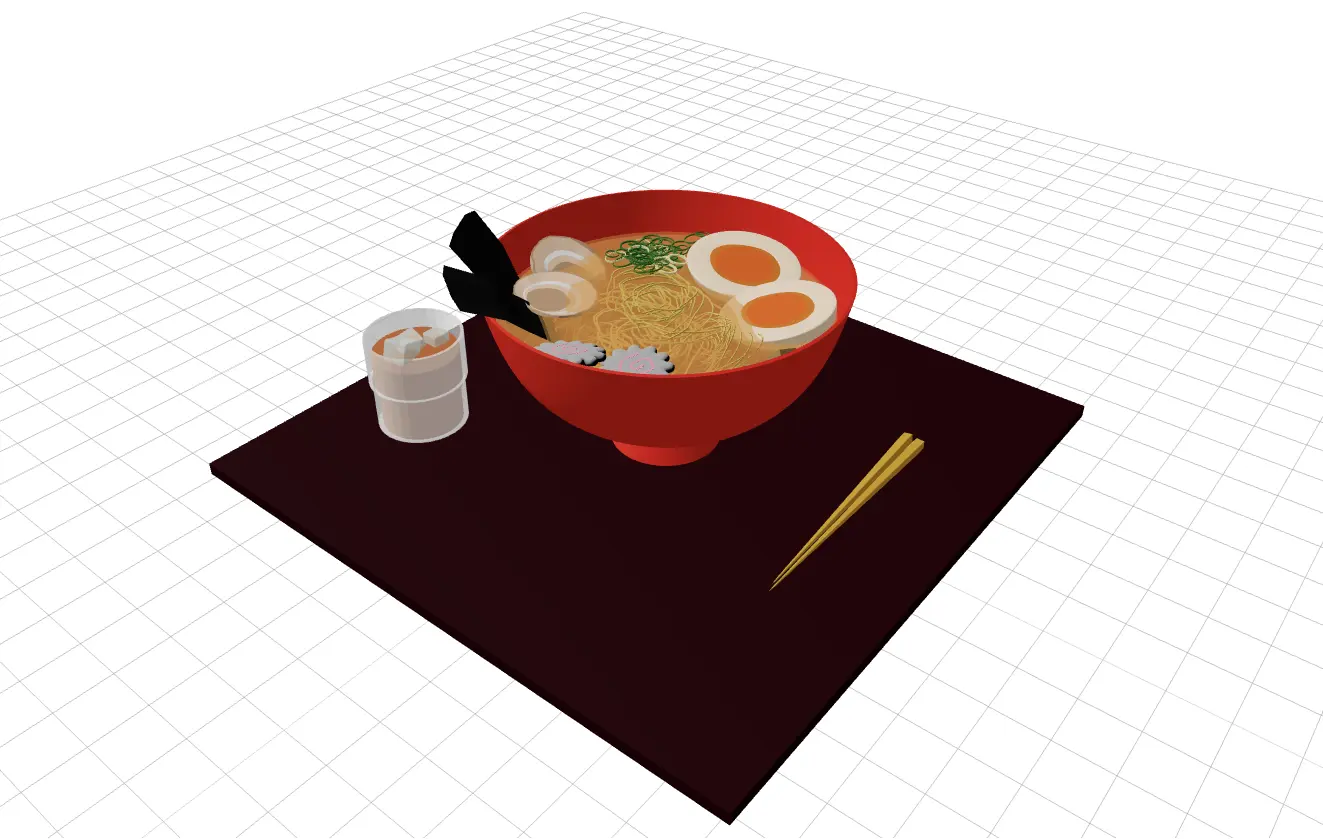
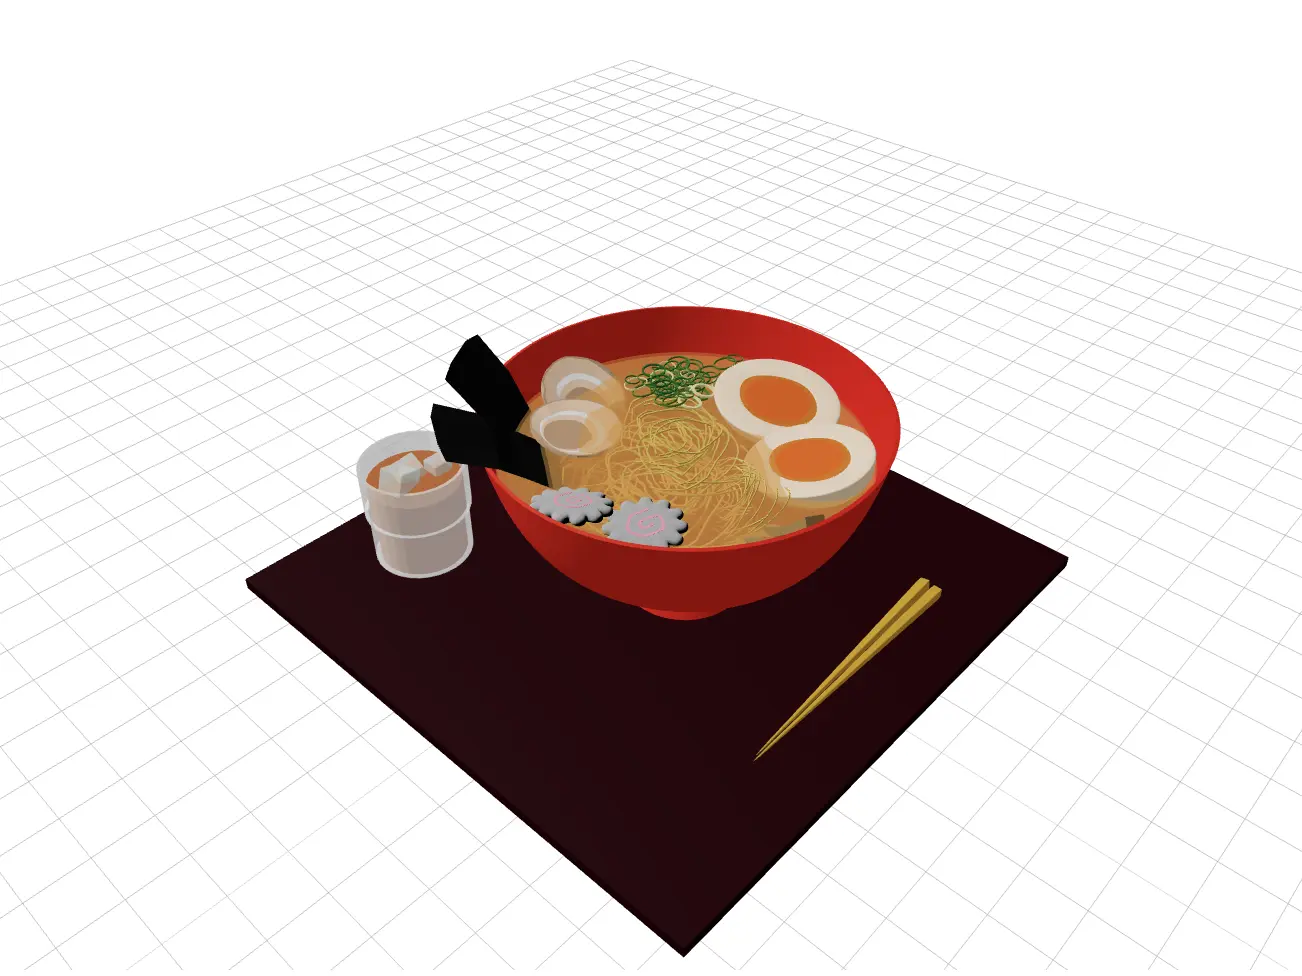
update ramen project thumbnail and switch to v2 model

diff --git a/src/content/projects/3d-ramen.md b/src/content/projects/3d-ramen.md
@@ -2,7 +2,7 @@
 title: 3D Ramen Bowl
 description: A 3D ramen bowl modeled in Blender.
 category: experiment
-model: /models/ramen.glb
+model: /models/ramen-v2.glb
 publishedAt: 2026-04-10
 draft: false
 image: /images/projects/3d-ramen.webp